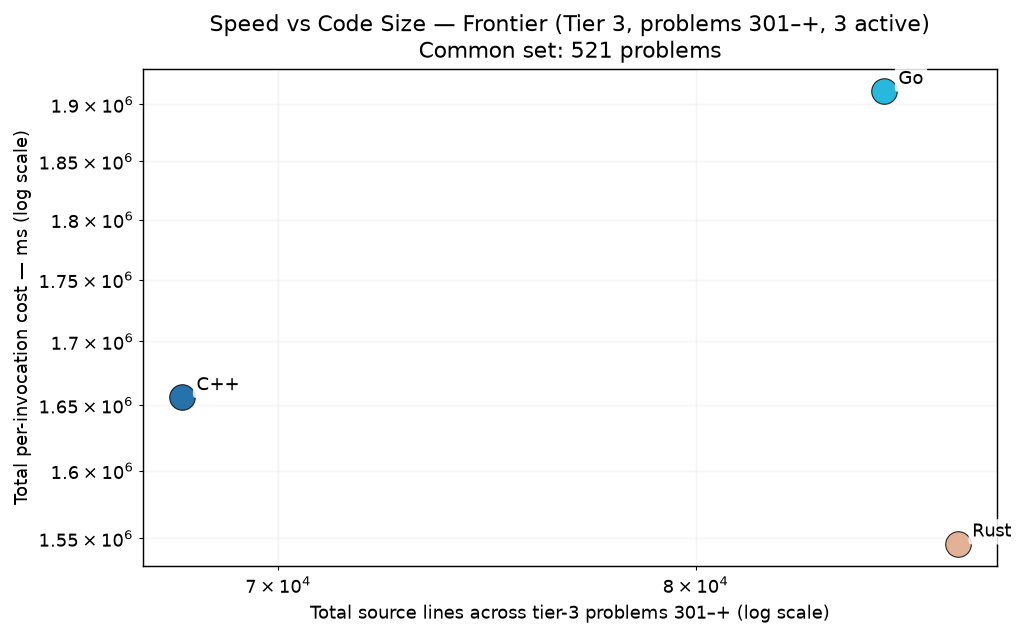
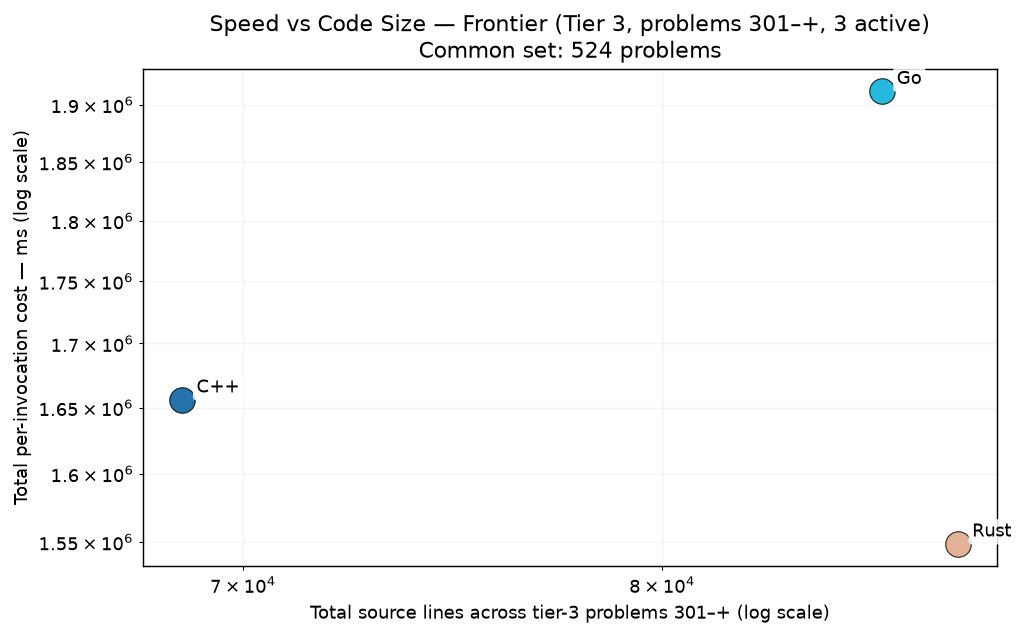
bench p0592,p0767,p0913 (L27 wave 1)

diff --git a/RESULTS.md b/RESULTS.md
@@ -1,6 +1,6 @@
 # Project Euler — Cross-Language Benchmarks
 
-> **Scope: 4521 in-scope cells across 1007 problems × tiered languages — 3976 measured (87.9% coverage).**
+> **Scope: 4521 in-scope cells across 1007 problems × tiered languages — 3985 measured (88.1% coverage).**
 > The cross-language ranking below is computed over the **200-problem common set** (problems in 1-200 where every language has a passing measurement) — the apples-to-apples Foundation comparison surface.  Per-tier rankings and coverage detail appear further below.
 > Growing carefully — each new problem and language is audited for state-leak
 > safety, verified for answer correctness, and added only when it cleanly fits the
@@ -70,15 +70,15 @@ Same scatter as the Foundation chart, restricted to the tier-2 active languages 
 
 The frontier verification trio — C++, Go, Rust — on problems above 300. 3-way cross-language agreement is the verification protocol (strictly stronger than 2-way; see JOURNEY.md "Tier Reframing" episode for the p254 lesson that motivated it). Python and Zig are explicitly out of this tier — python's wall cost makes it impractical at level 5+, and zig's role caps at Tier 2.
 
-### Per-Invocation Cost (Common Set, 521 of ≤707 problems in scope)
+### Per-Invocation Cost (Common Set, 524 of ≤707 problems in scope)
 
 ![Per-Invocation Cost — Tier 3](charts/per_iter_total_tier3.png)
 
-| Rank | Language | Geomean (521-problem common set) | Total (sum) | Lines of code | vs Fastest |
+| Rank | Language | Geomean (524-problem common set) | Total (sum) | Lines of code | vs Fastest |
 |------|----------|--------------------:|------------:|--------------:|-----------:|
-| 1 | **Rust** | 66.56 ms | 1546.05 s | 86,995 | 1.00× |
-| 2 | **C++** | 69.29 ms | 1655.95 s | 67,880 | 1.04× |
-| 3 | **Go** | 83.71 ms | 1911.74 s | 84,967 | 1.26× |
+| 1 | **Rust** | 67.18 ms | 1548.67 s | 87,899 | 1.00× |
+| 2 | **C++** | 69.12 ms | 1656.10 s | 68,654 | 1.03× |
+| 3 | **Go** | 83.44 ms | 1911.91 s | 85,813 | 1.24× |
 
 ### Speed vs Code Size
 

diff --git a/per_problem/per_problem_0901-1000.md b/per_problem/per_problem_0901-1000.md
@@ -20,7 +20,7 @@ in tier-1 display order (native → managed → interpreted).
 | **p0910** | — | — | — |
 | **p0911** | 619.8 µs | 298.4 µs | 4.36 ms |
 | **p0912** | 1.11 ms | 6.24 ms | 13.9 µs |
-| **p0913** | — | — | — |
+| **p0913** | 26.59 ms | 24.25 ms | 18.19 ms |
 | **p0914** | 101.55 ms | 3.65 s | 100.08 ms |
 | **p0915** | 1.24 s | 25.51 ms | 7.45 ms |
 | **p0916** | — | — | — |

diff --git a/per_problem/per_problem_0501-0600.md b/per_problem/per_problem_0501-0600.md
@@ -99,7 +99,7 @@ in tier-1 display order (native → managed → interpreted).
 | **p0589** | — | — | — |
 | **p0590** | — | — | — |
 | **p0591** | — | — | — |
-| **p0592** | — | — | — |
+| **p0592** | 45.35 ms | 1.18 s† | 77.42 ms |
 | **p0593** | 1.80 s | 2.15 s | 2.44 s |
 | **p0594** | — | — | — |
 | **p0595** | 775.4 µs | 803.3 µs | 54.45 ms |

diff --git a/per_problem/per_problem_0701-0800.md b/per_problem/per_problem_0701-0800.md
@@ -74,7 +74,7 @@ in tier-1 display order (native → managed → interpreted).
 | **p0764** | 1.86 s | 2.67 s | 2.68 s |
 | **p0765** | — | — | — |
 | **p0766** | — | — | — |
-| **p0767** | — | — | — |
+| **p0767** | 77.70 ms | 1.41 s | 78.20 ms |
 | **p0768** | — | — | — |
 | **p0769** | — | — | — |
 | **p0770** | 158.21 ms | 158.17 ms | 158.29 ms |
